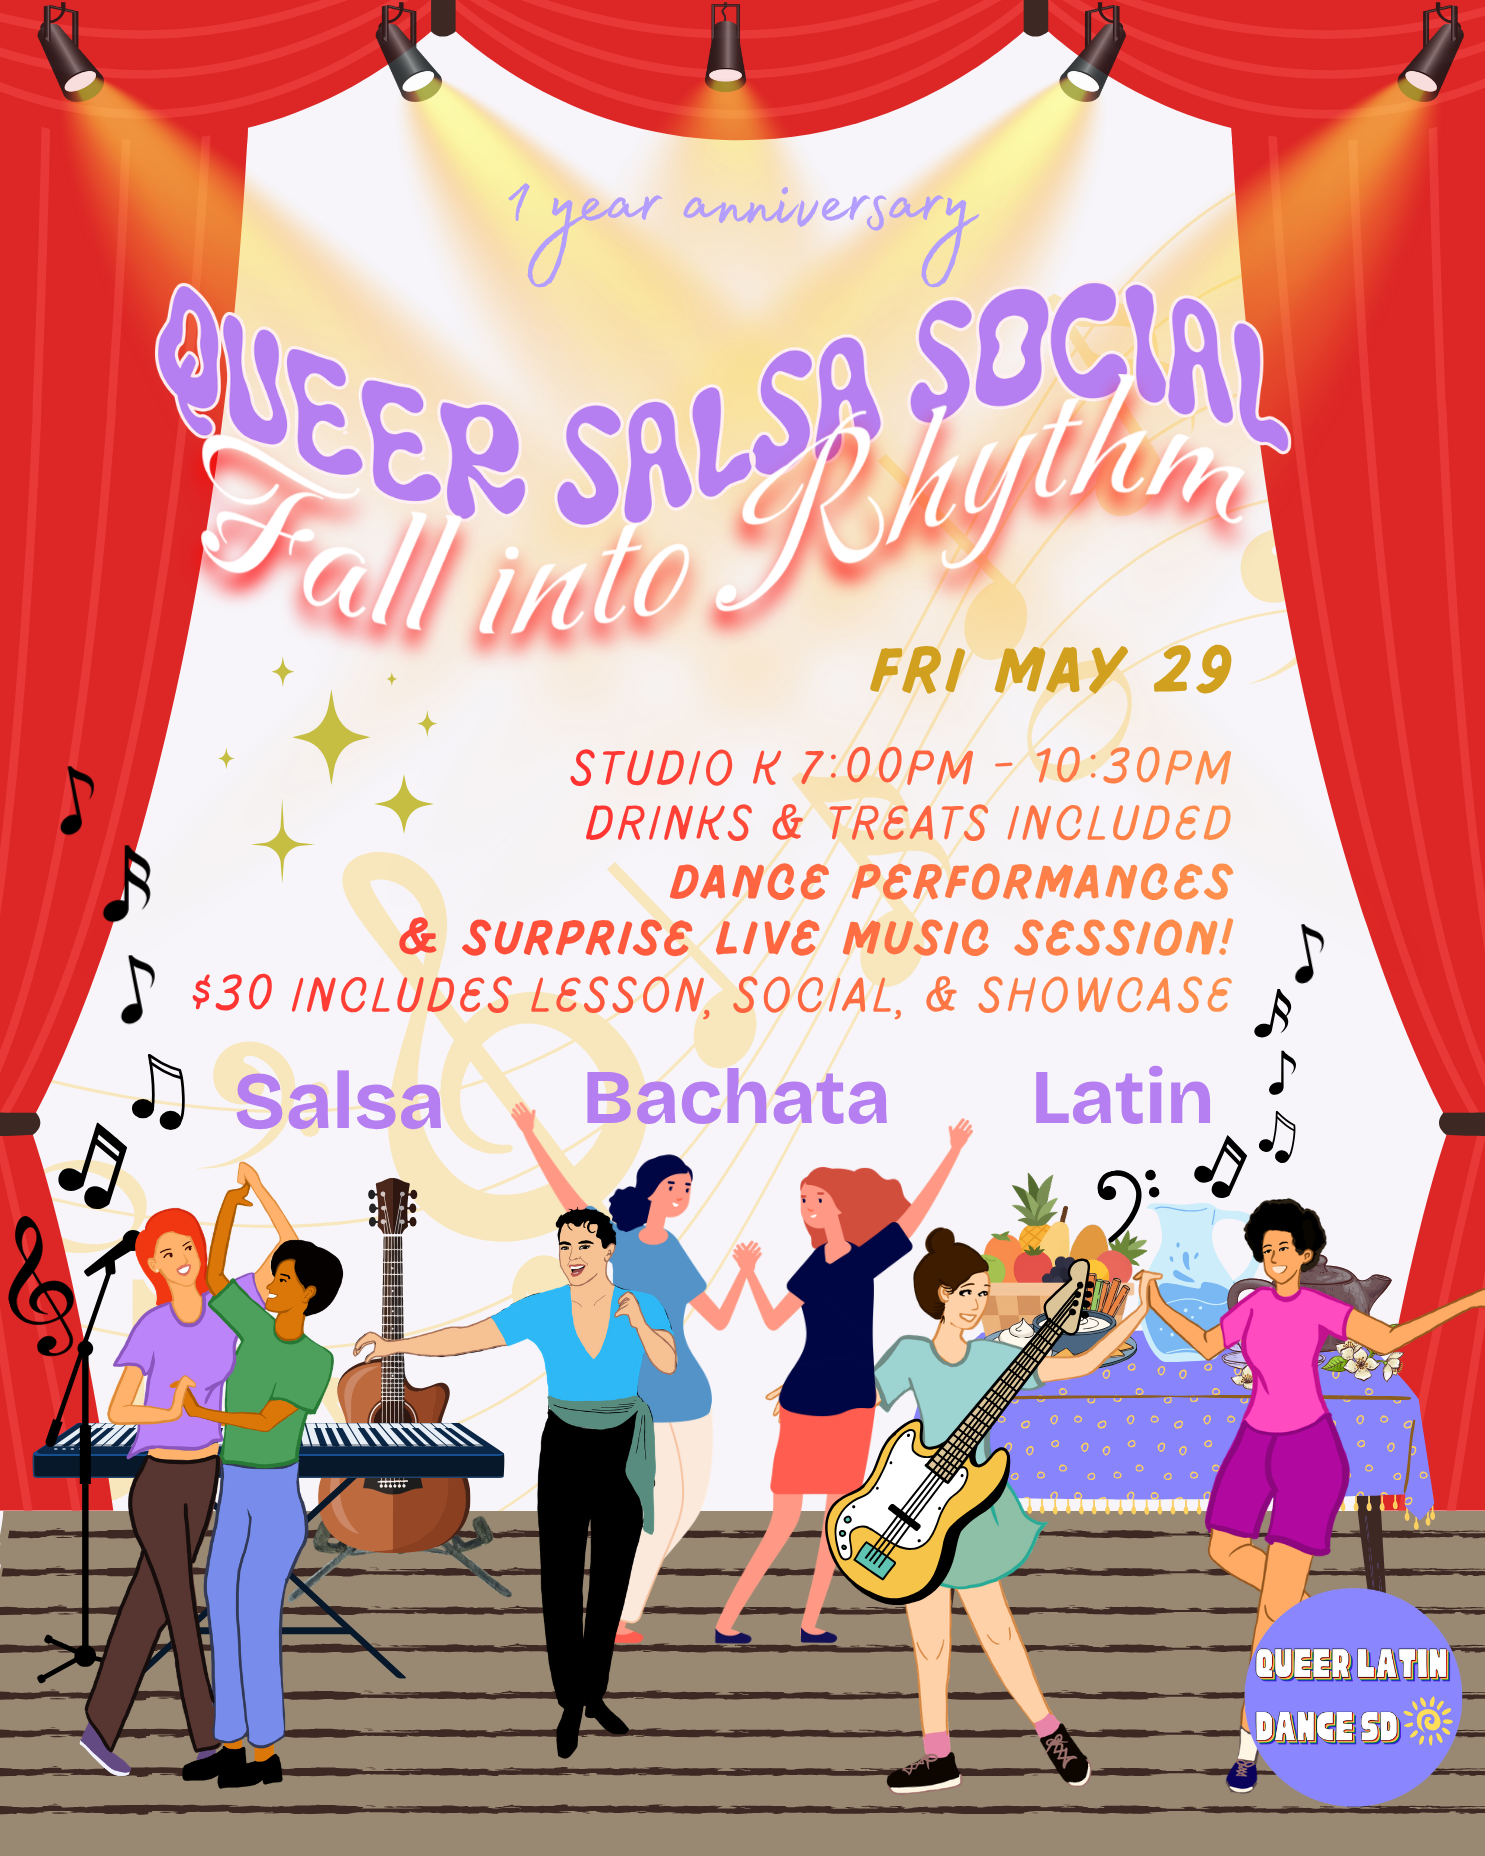
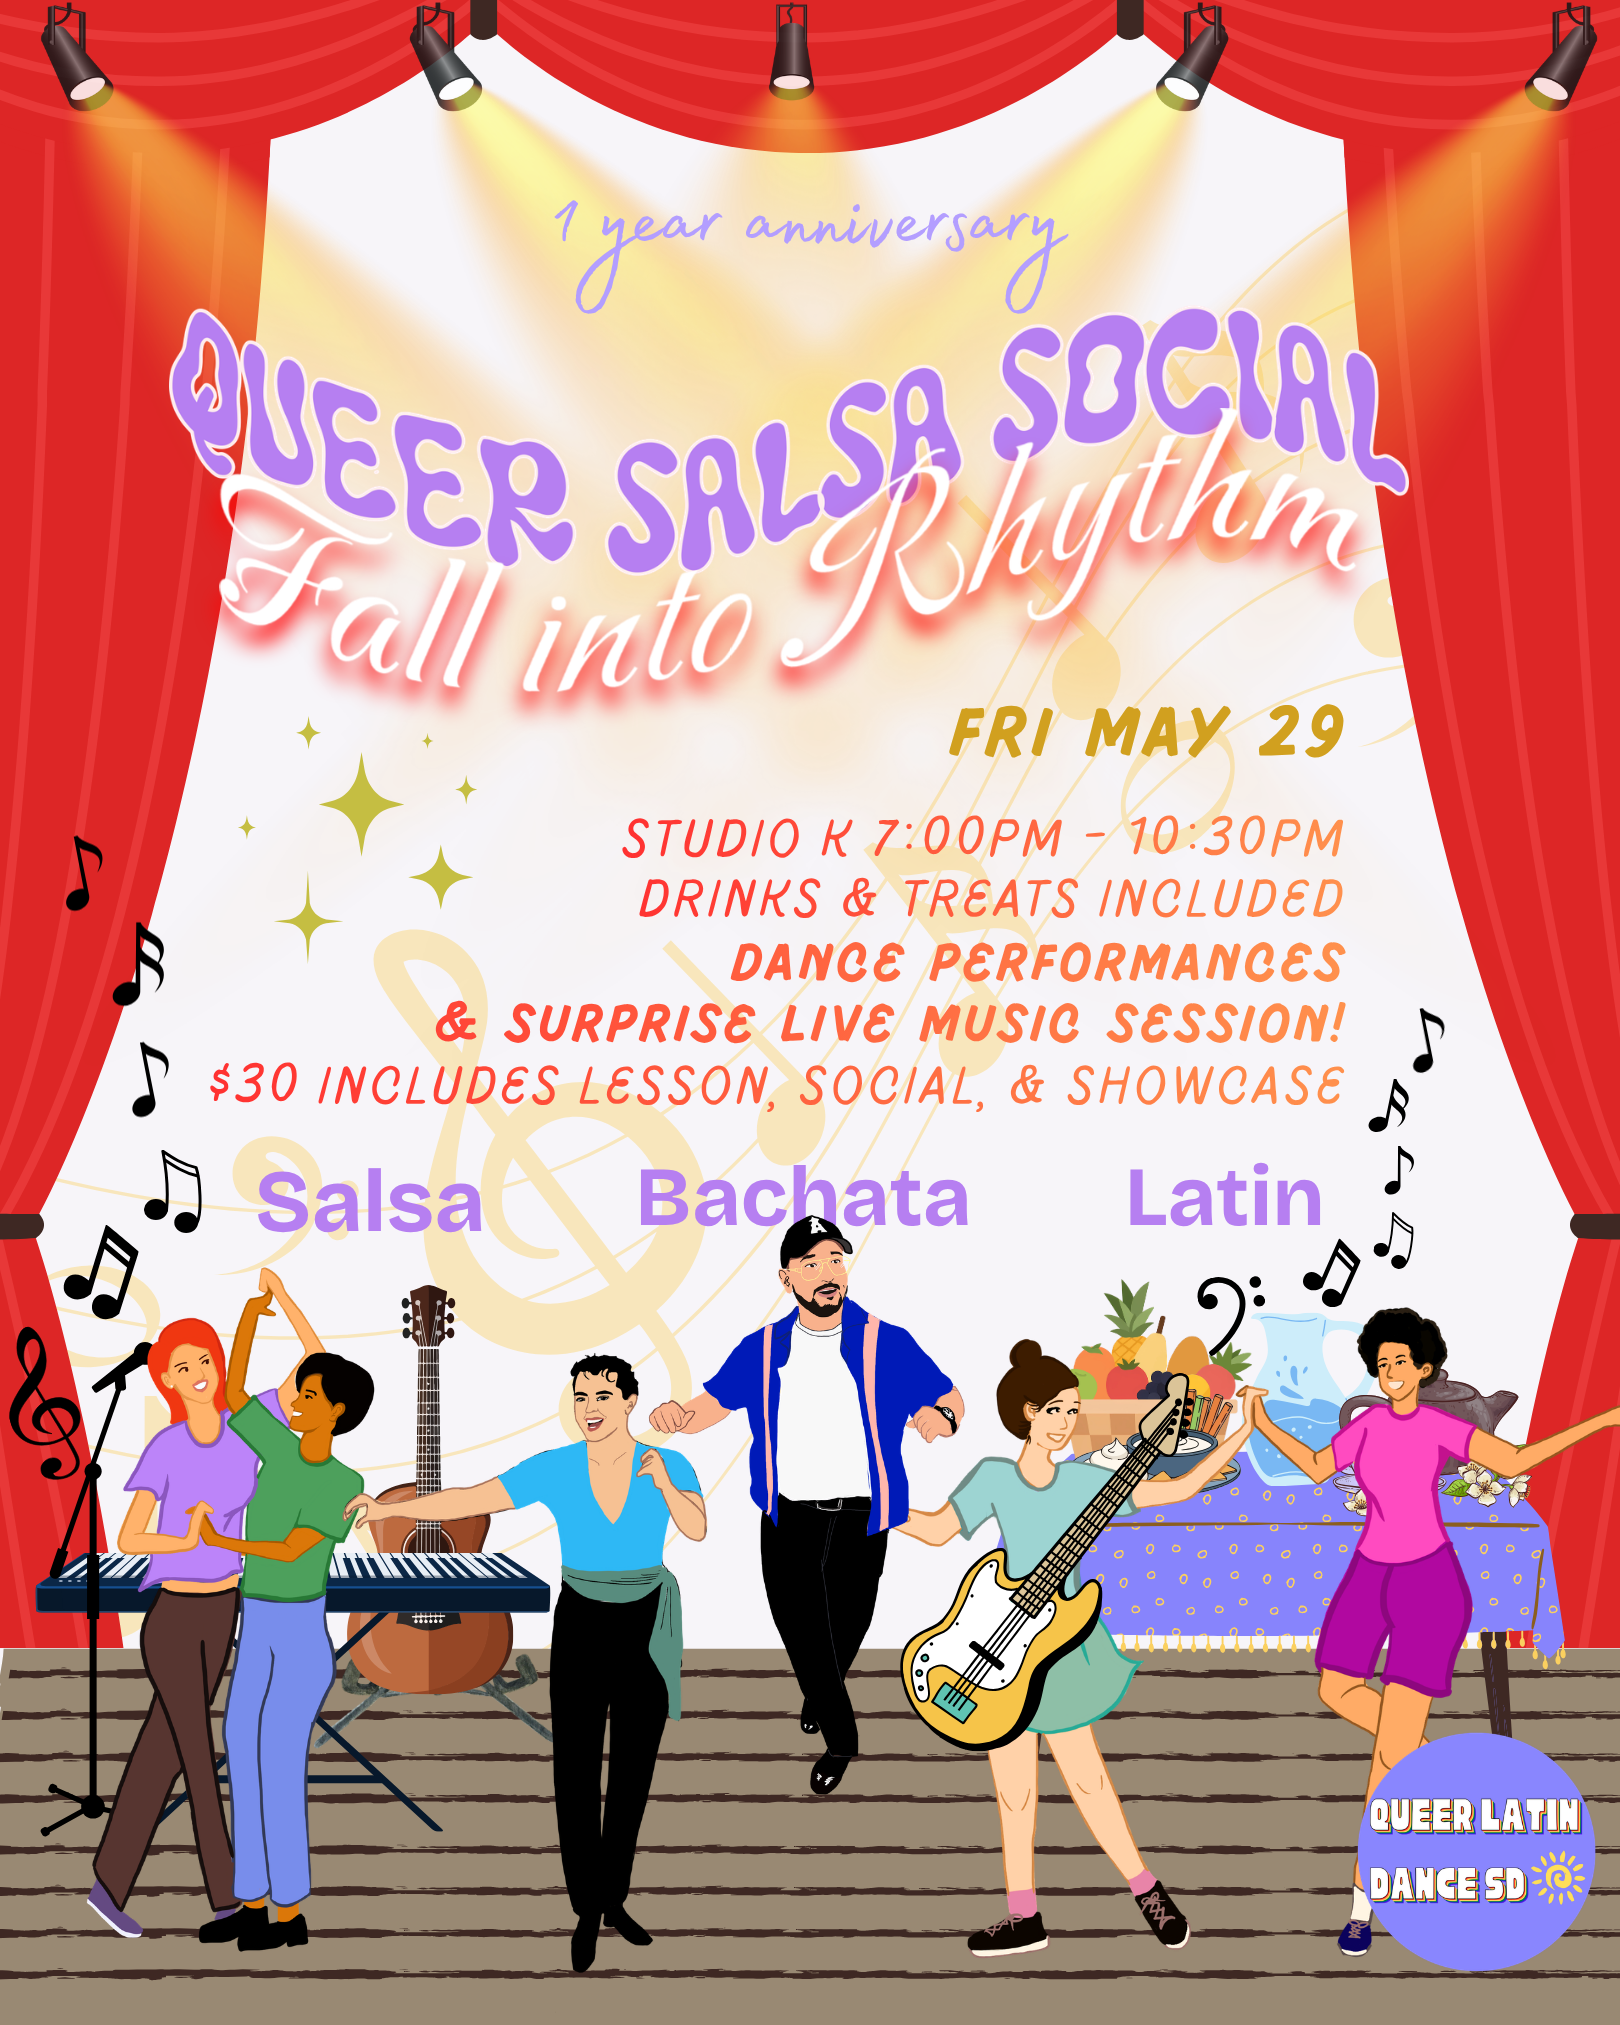
checkin updates for may event

diff --git a/checkin.html b/checkin.html
@@ -9,7 +9,7 @@
 <style>
 
 body {
-  background-image: url('images/eventpage/aprqssbg.png');
+  background-image: url('images/eventpage/mayqssbg.png');
   background-size: cover;
   background-position: center;
   background-repeat: no-repeat;
@@ -558,8 +558,8 @@ font-style: italic;
 <body>
 <div class="main-flex">
 <div class="checkin-container">
-    <h2>GUEST CHECK-IN<span class="heart">🌷Welcome!🌷</span></h2>
-    <h3><i>Queer Salsa Social: ¡Que Dulce Ritmo! <br>Brought to you by QLDSD</i></h3>
+    <h2>GUEST CHECK-IN<span class="heart">🎉Welcome!🎉</span></h2>
+    <h3><i>Queer Salsa Social: Fall into Rhythm <br>Brought to you by QLDSD</i></h3>
     <!-- <div class="checkin-footer">
   Scan QR code using the camera. <br>
   Purchase ticket through Stripe then check in using name or email address used for payment.<i>(processing fee applies)</i>.
@@ -589,7 +589,7 @@ font-style: italic;
   <div class="popup-content">
     <h2>Purchase Ticket</h2>
        <p>After payment, close pop-up to return to check in using your QR CODE or email.</p>
-    <img src="images/eventpage/stripe-qr1.png" alt="Stripe QR Code" style="width:300px; margin:1em auto; display:block;">
+    <img src="images/eventpage/stripe-qr2.png" alt="Stripe QR Code" style="width:300px; margin:1em auto; display:block;">
     <div style="margin-top:1em;">
       <button class="btn-cancel" onclick="closePopup('stripe-popup')">Close</button>
     </div>
@@ -600,7 +600,7 @@ font-style: italic;
 
 </div>
 <div class="flyer-container">
-<img src="images/eventpage/qssapr2026flyer.png" alt="Event Flyer" class="event-flyer">
+<img src="images/eventpage/qssmay29.png" alt="Event Flyer" class="event-flyer">
 </div>
 </div>
 <!-- Name/Pronouns Popup -->
